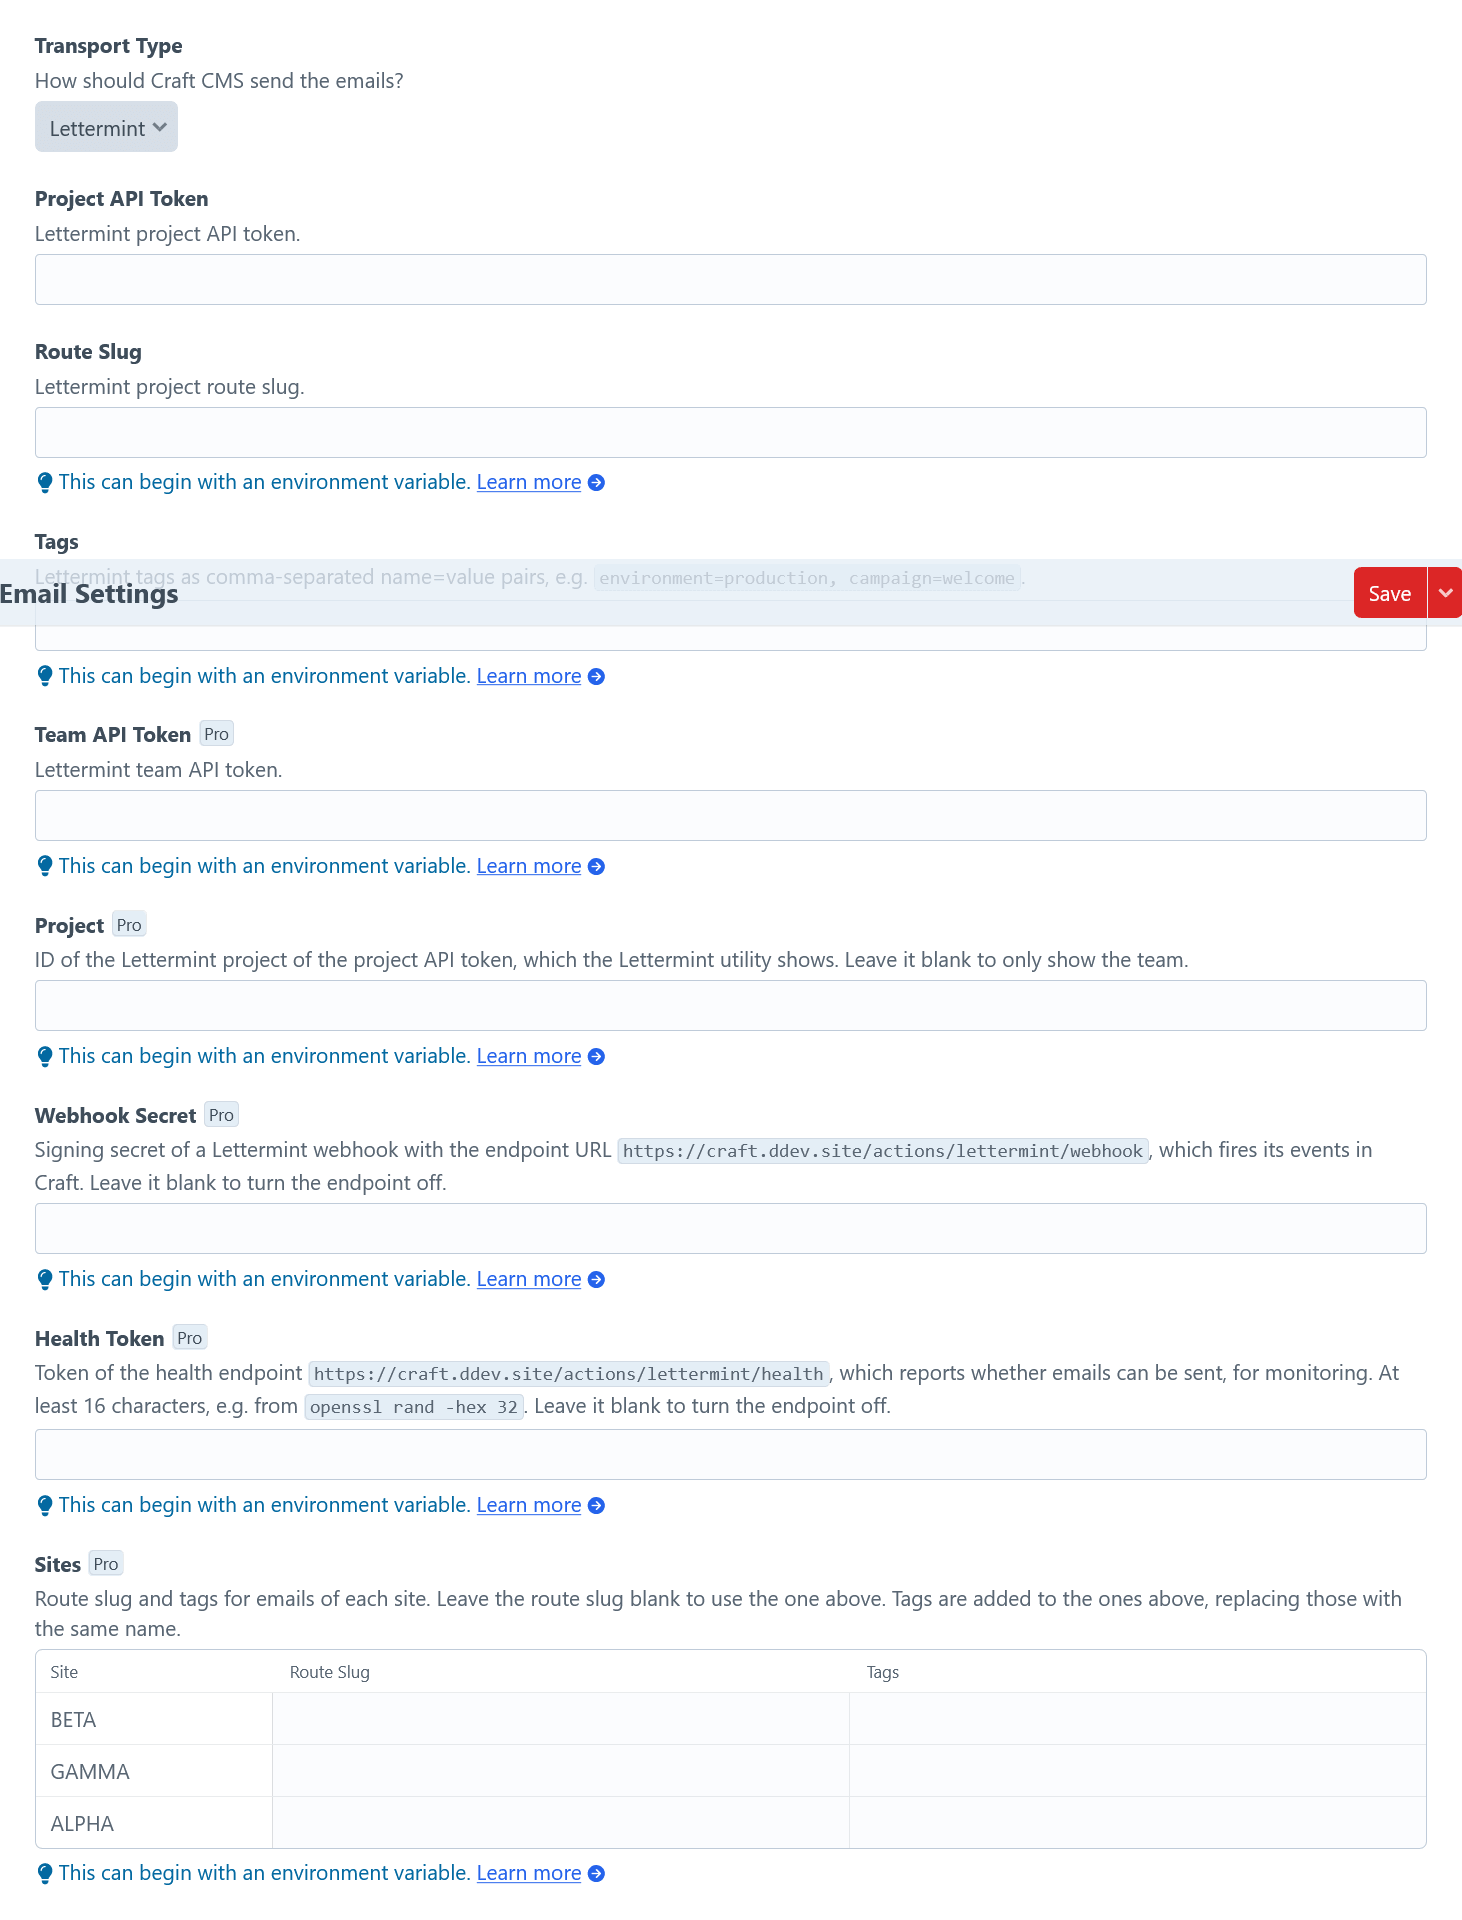
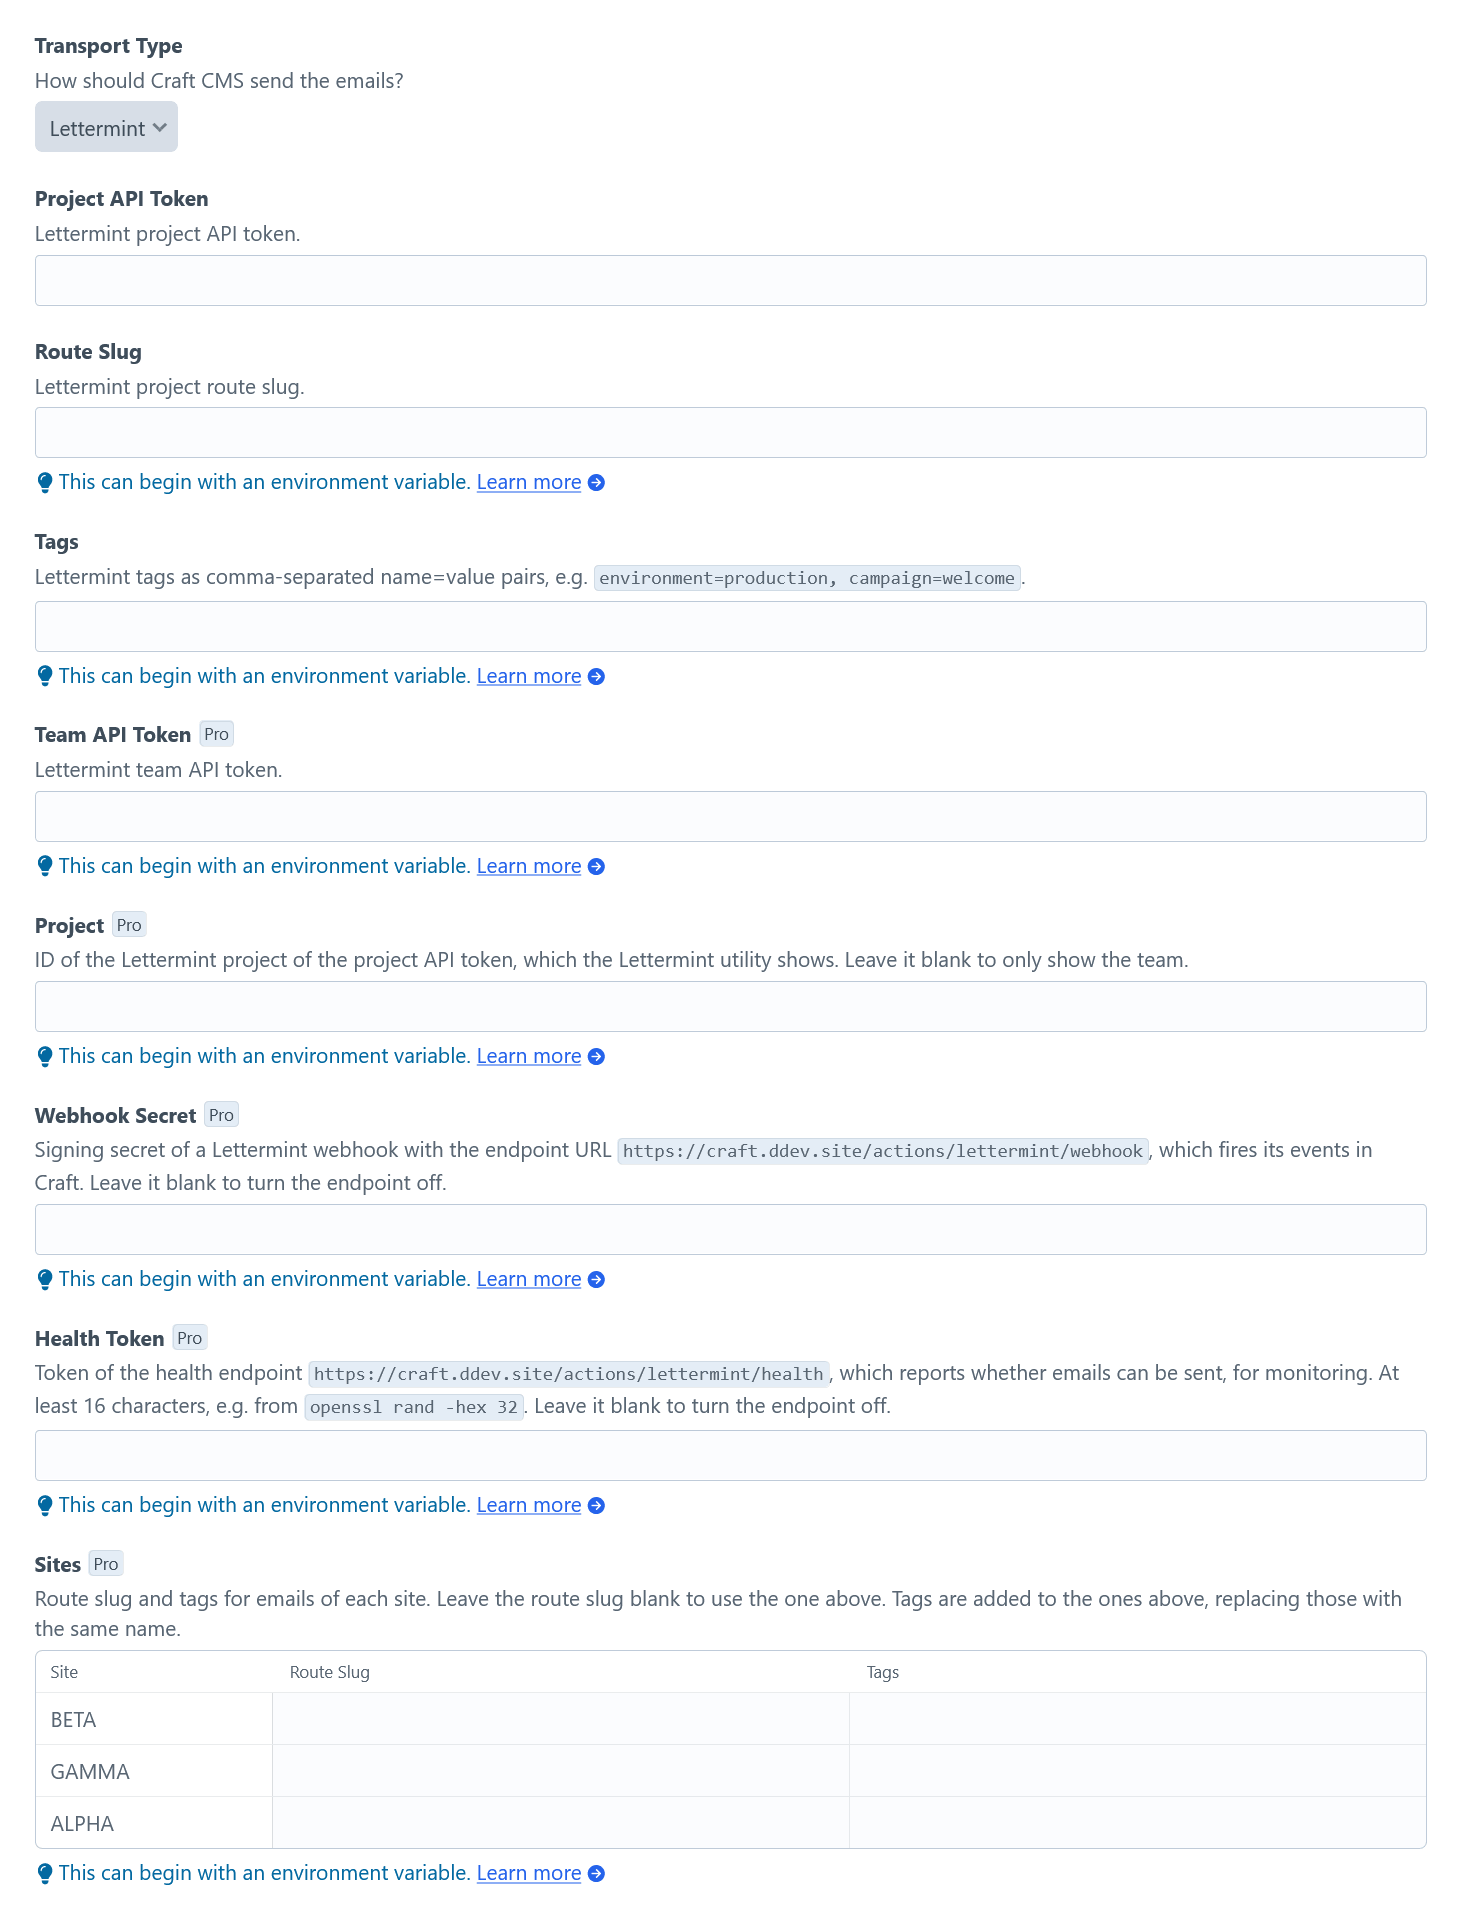
docs: split route and tags on the editions page

diff --git a/docs/src/content/docs/guide/editions.md b/docs/src/content/docs/guide/editions.md
@@ -8,7 +8,8 @@ The plugin comes in two editions. Standard sends your emails through Lettermint.
 | Feature                                                 | Standard | Pro |
 | ------------------------------------------------------- | :------: | :-: |
 | Mail transport                                          |   Yes    | Yes |
-| [Route](/features/route/) and [tags](/features/tags/)   |   Yes    | Yes |
+| [Route](/features/route/)                               |   Yes    | Yes |
+| [Tags](/features/tags/)                                 |   Yes    | Yes |
 | [Sites](/features/sites/) with their own route and tags |          | Yes |
 | [Craft metadata](/features/metadata/) on every email    |          | Yes |
 | [Utility](/features/utility/)                           |          | Yes |
